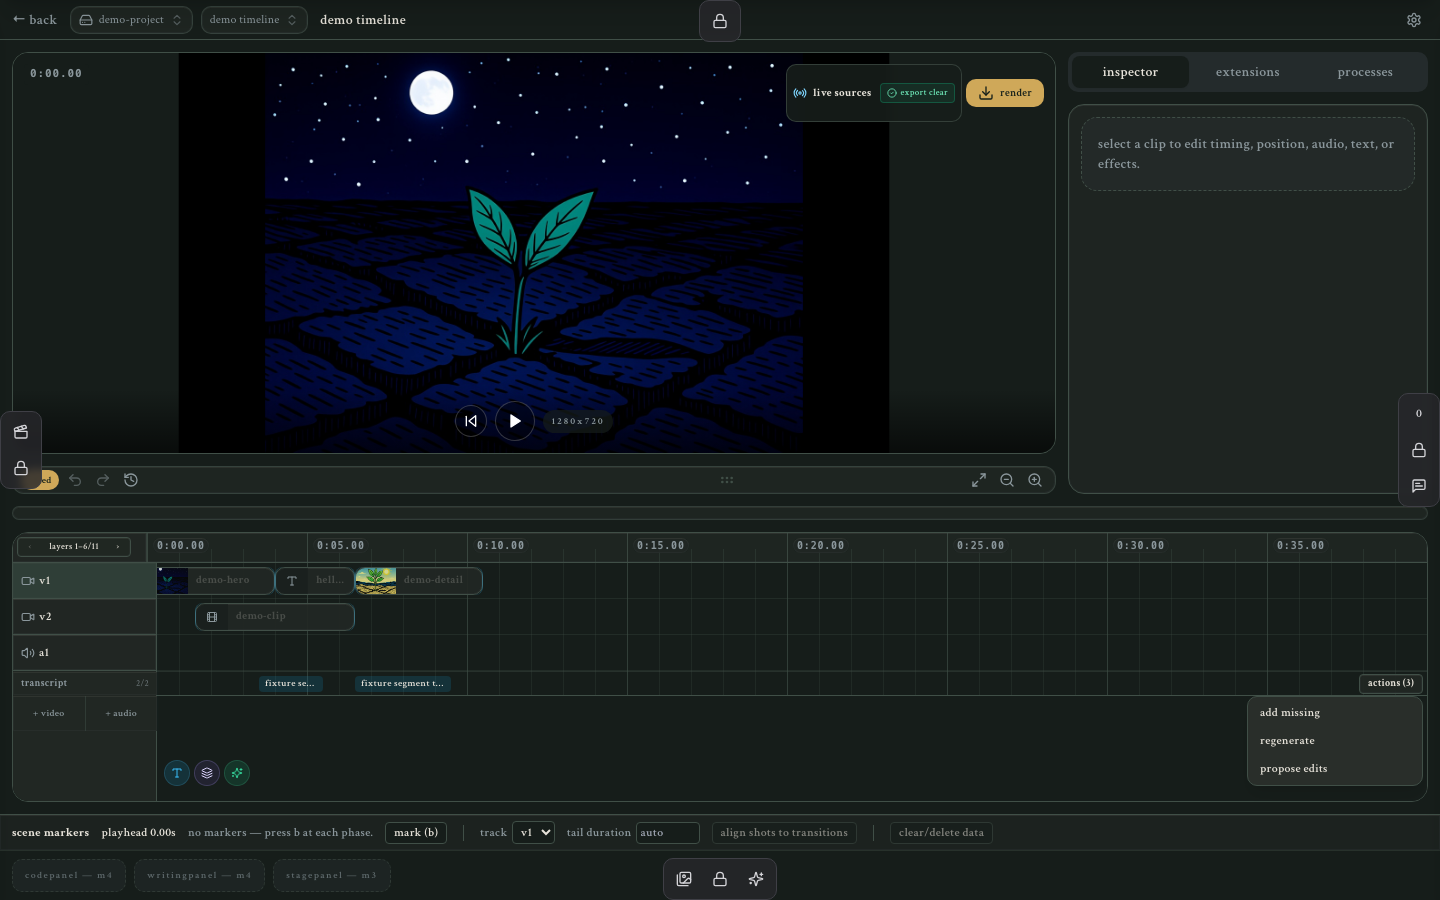
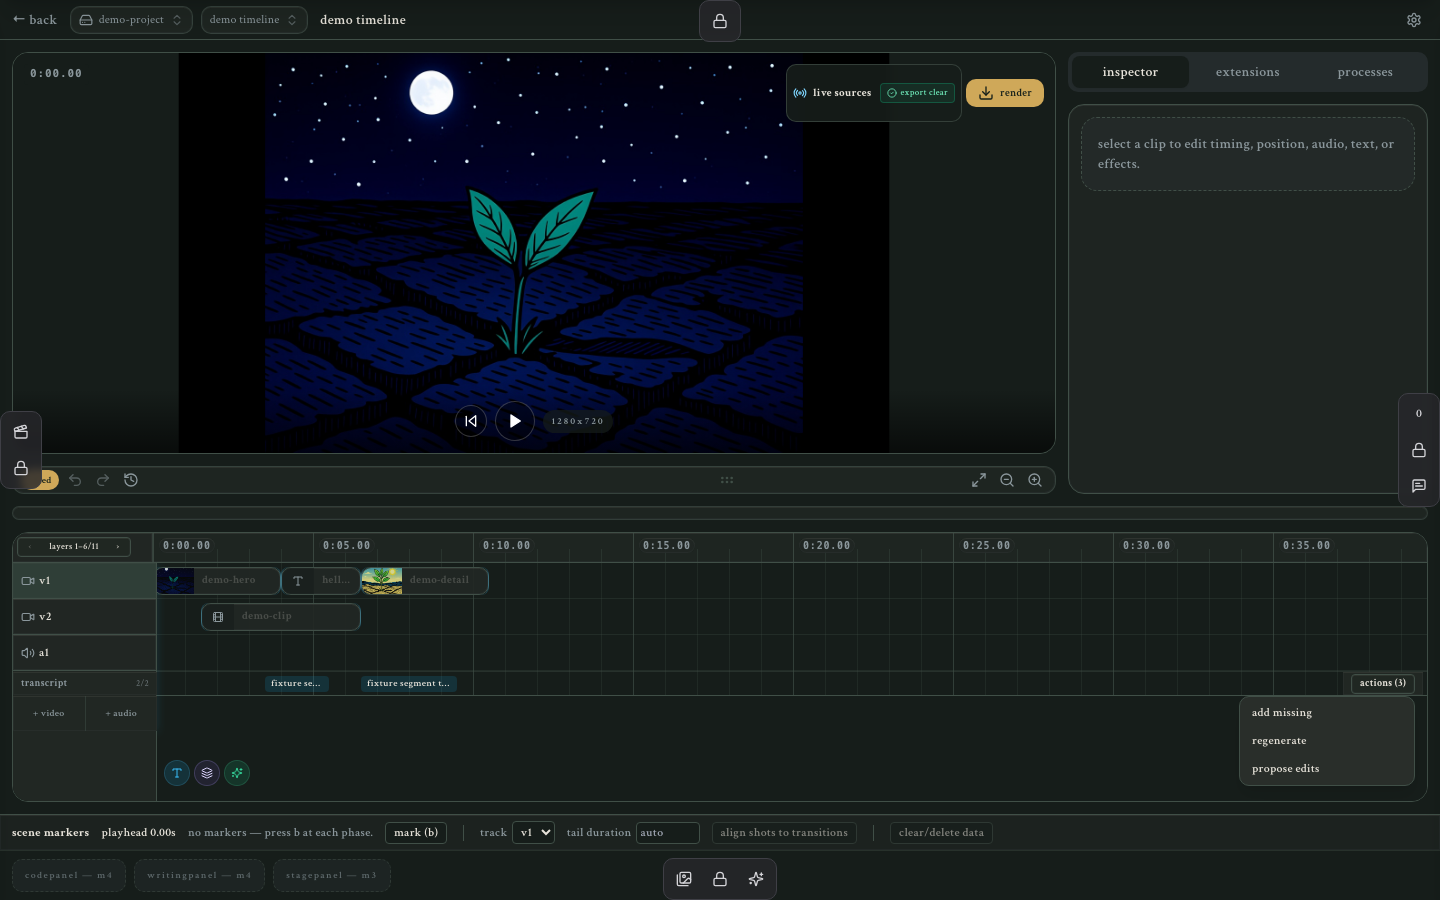
Reserve a safe gutter for lane actions

diff --git a/tests/e2e/timeline/lane-action-responsive.spec.ts b/tests/e2e/timeline/lane-action-responsive.spec.ts
@@ -40,6 +40,30 @@ for (const viewport of viewports) {
     ).toBeLessThanOrEqual(
       Math.min(viewport.width, scrollerBox!.x + scrollerBox!.width) + 1,
     );
+    if (viewport.name === 'phone') {
+      const rail = row.getByTestId('data-lane-action-rail');
+      const [railBox, chipBox, railBackground] = await Promise.all([
+        rail.boundingBox(),
+        row.getByTestId('transcript-lane-chip').first().boundingBox(),
+        rail.evaluate((element) => getComputedStyle(element).backgroundColor),
+      ]);
+      expect(railBox).not.toBeNull();
+      expect(chipBox).not.toBeNull();
+      expect(railBackground).not.toBe('rgba(0, 0, 0, 0)');
+      expect(railBox!.width).toBeGreaterThanOrEqual(79);
+      expect(railBox!.x).toBeLessThanOrEqual(triggerBox!.x);
+      expect(
+        railBox!.x + railBox!.width,
+        JSON.stringify({ railBox, triggerBox, viewport }),
+      ).toBeGreaterThanOrEqual(triggerBox!.x + triggerBox!.width);
+      const visibleChipLeft = Math.max(chipBox!.x, scrollerBox!.x);
+      const visibleChipRight = Math.min(chipBox!.x + chipBox!.width, railBox!.x);
+      expect(
+        visibleChipRight - visibleChipLeft,
+        JSON.stringify({ chipBox, railBox, triggerBox, viewport }),
+      ).toBeGreaterThan(20);
+      expect(visibleChipRight).toBeLessThanOrEqual(triggerBox!.x - 1);
+    }
 
     const triggerCenter = {
       x: triggerBox!.x + triggerBox!.width / 2,

diff --git a/src/tools/video-editor/components/TimelineEditor/DataLaneRow.tsx b/src/tools/video-editor/components/TimelineEditor/DataLaneRow.tsx
@@ -312,7 +312,7 @@ function LaneActionMenu({ laneLabel, actions, items }: LaneActionMenuProps) {
     <div
       ref={rootRef}
       data-testid="data-lane-action-rail"
-      className="pointer-events-none sticky right-1 z-30 col-start-1 row-start-1 mr-1 flex h-full w-max items-center justify-self-end"
+      className="pointer-events-none sticky right-1 z-30 col-start-1 row-start-1 mr-1 flex h-full w-20 items-center justify-self-end bg-card pl-2"
       onClick={stopRowSelection}
     >
       <button
